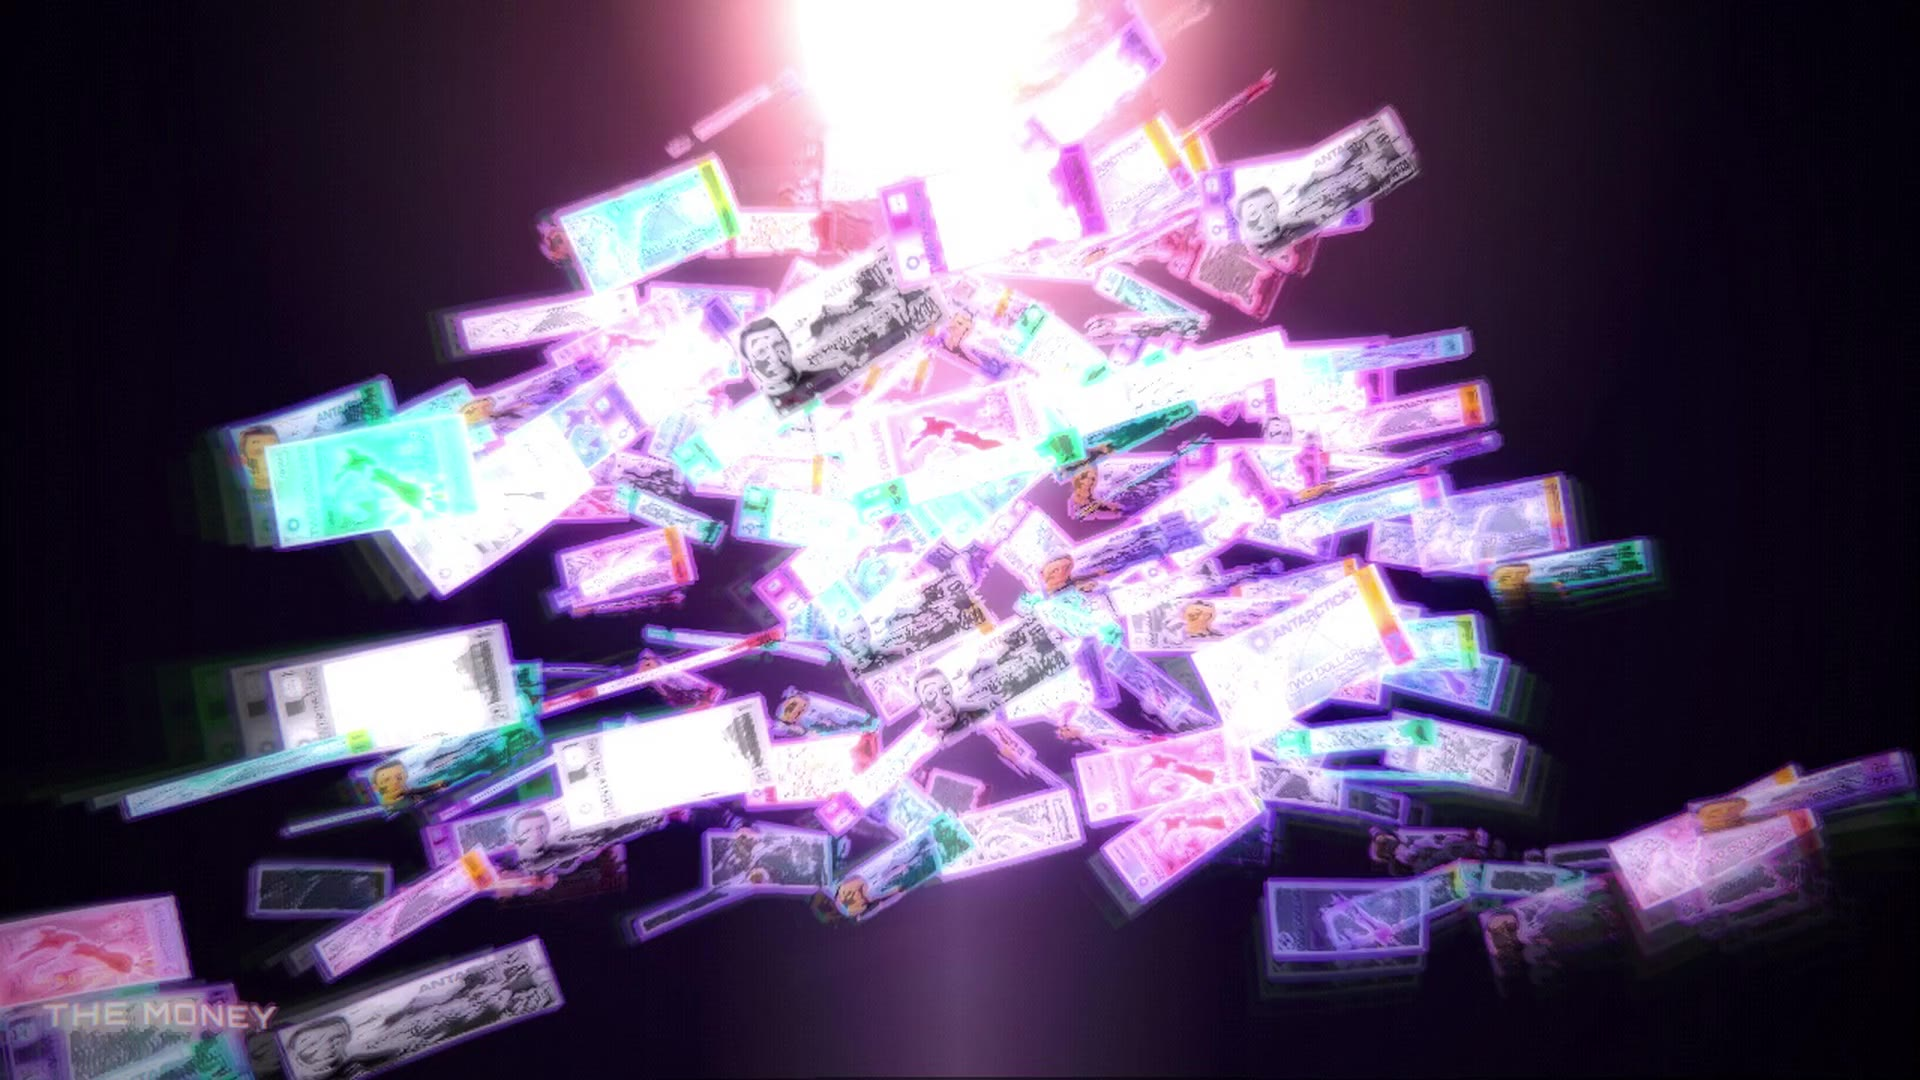
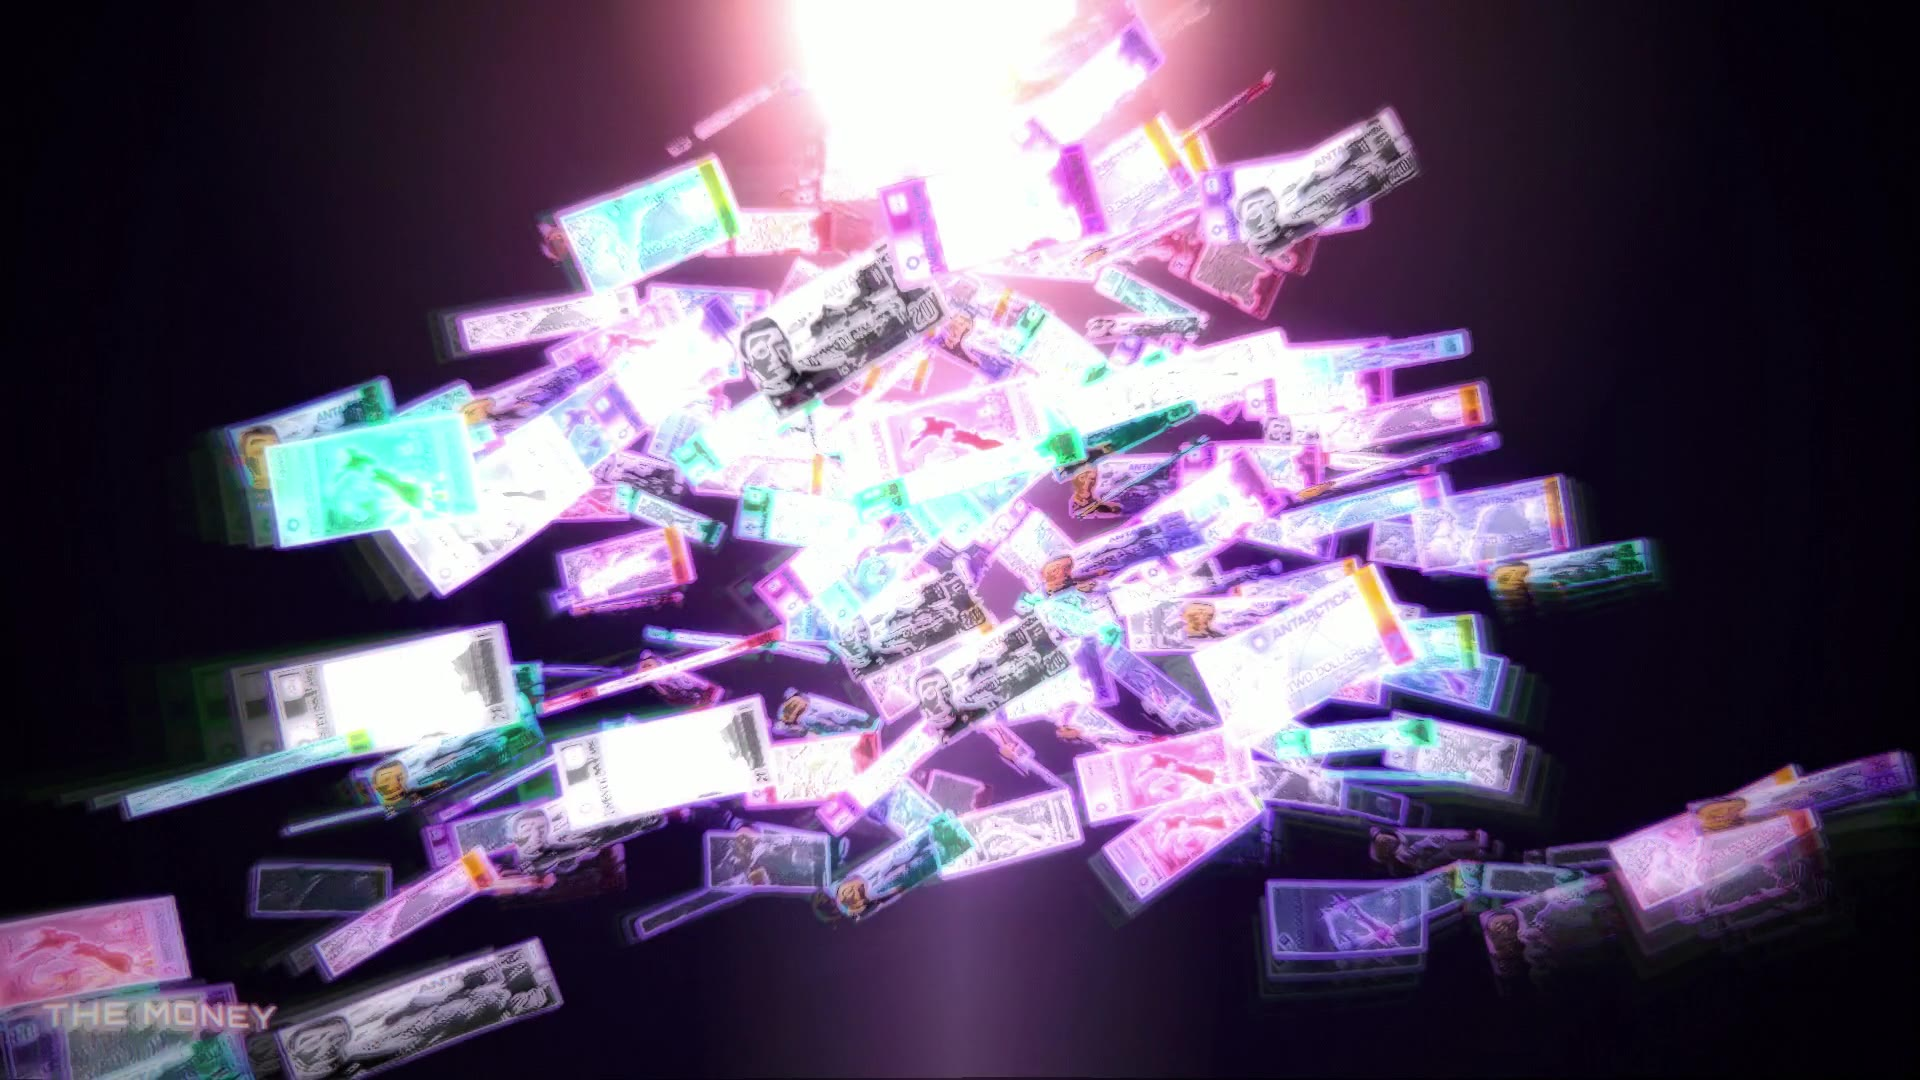
Films 10 and 11 re-rendered at full 1080p; render slices can warm their trails (#26)
* NFA label off suppressors, kept on SBRs and SBSs

The red NFA plate on product covers now follows a switch in config.js
(nfaLabels: suppressor / sbr / sbs). Suppressors and suppressor packages
are off; short-barreled rifles and shotguns keep it. The catalogue's NFA
flag is untouched, so setting a kind back to true brings its labels back.
The Silent Vault line on the home page now says which items wear it.

Claude-Session: https://claude.ai/code/session_01878zjCjFBirvcQEjn5ziuC

* The owner's art takes each realm's colours

The banner, the Tiny Cans poster, the Antarctica $2 notes and the $20
bill now have a recoloured copy per realm (Inner Earth, Agarthan
Crystal, Vril, Black & White); Polar Night shows them as delivered.
tools/realm-art.py makes the copies: each picture keeps its own light
and dark, so lettering stays readable, and its warm and cool colours
move onto the realm's palette, gentle colours like skin only partway.

site.js points every <img>/<source> showing one of them at the realm's
copy, and again whenever the realm changes; the Armory header art does
the same. scripts/test-realm-art.mjs (now in npm test) checks every
realm has a copy of every picture at the original's size.

Claude-Session: https://claude.ai/code/session_01878zjCjFBirvcQEjn5ziuC

* Work in progress: realm-only art (Naica, Symmes Hole) for Inner Earth and Black & White

The markup, the .realm-only show/hide rules, the ember tone map in
[…]

diff --git a/tools/trailer/README.md b/tools/trailer/README.md
@@ -56,7 +56,13 @@ STAGE=a node tools/trailer/render.mjs arsenal       # film the site only
 STAGE=b node tools/trailer/render.mjs arsenal       # re-run the trip on frames already filmed
 PREVIEW_T=4,12.5,20 node tools/trailer/render.mjs phase   # stills in .trailer-cache/<key>/preview/
 FROM=12 TO=18 node tools/trailer/render.mjs event   # a slice
+STAGE=b FROM=107 TO=120 PREROLL=3 SLICE=tail node tools/trailer/render.mjs way-down   # a slice to join back in
 ```
+
+A slice starts with clean trails, so it does not match the whole film where trails are running. `PREROLL=3` runs
+the trip pass three seconds early, unrecorded, and the slice then starts with the trails the film has there.
+That is how a long render cut short is finished without starting over: render the missing stretch as a slice
+and join it to the part already made.
 
 It needs the Playwright Chromium (`require('playwright')`), ffmpeg on the PATH and Node 18+.
 Frames are cached in `.trailer-cache/` (git-ignored). The MP4s are git-ignored too: at
